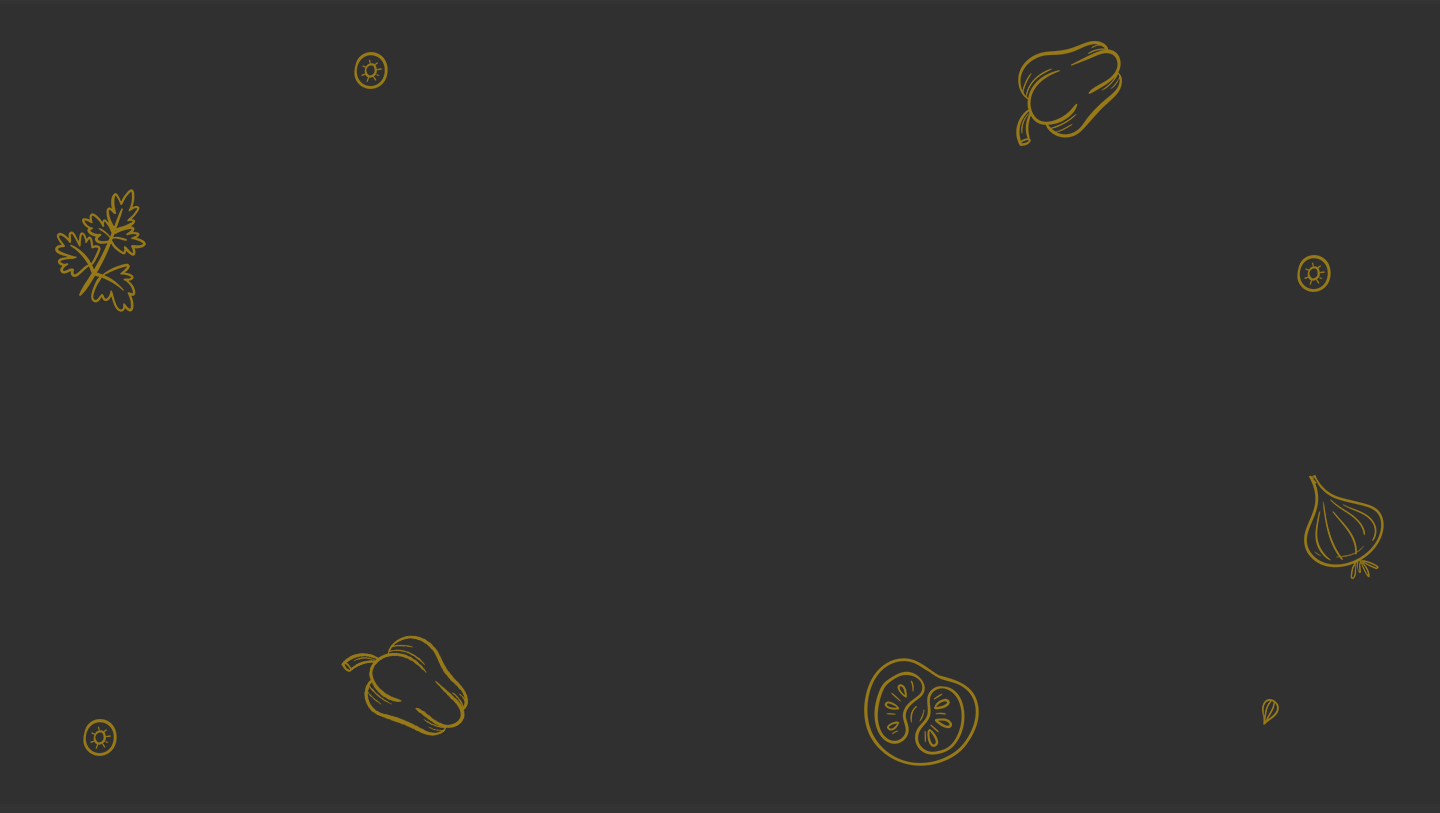
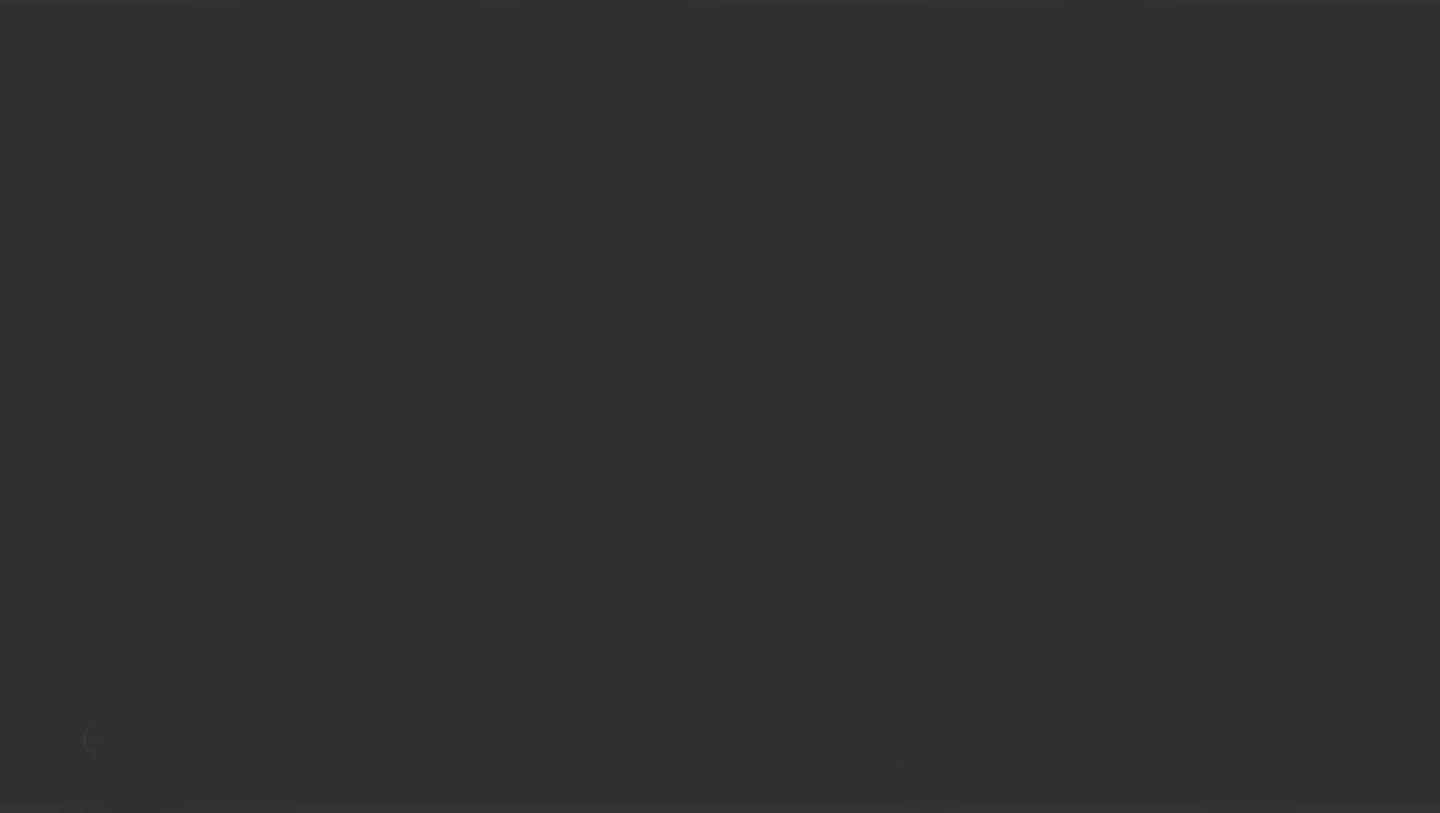
edit

diff --git a/css/kfc.css b/css/kfc.css
@@ -1,5 +1,5 @@
 :root {
-  --main-color: #dd9b1f;
+  --main-color: #dd351f;
 }
 *{
   box-sizing: border-box;
